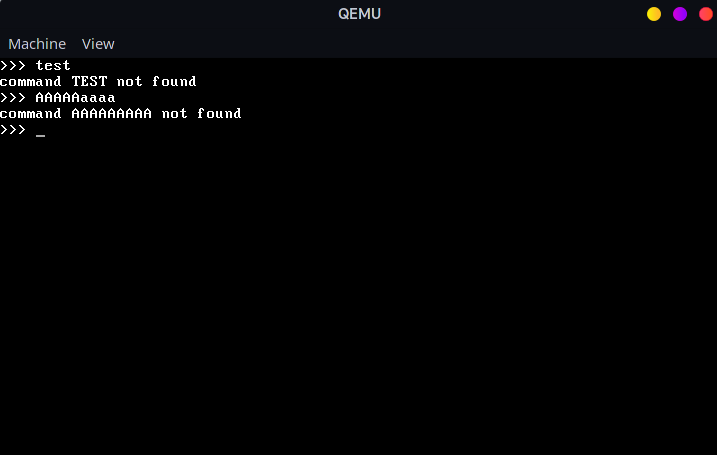
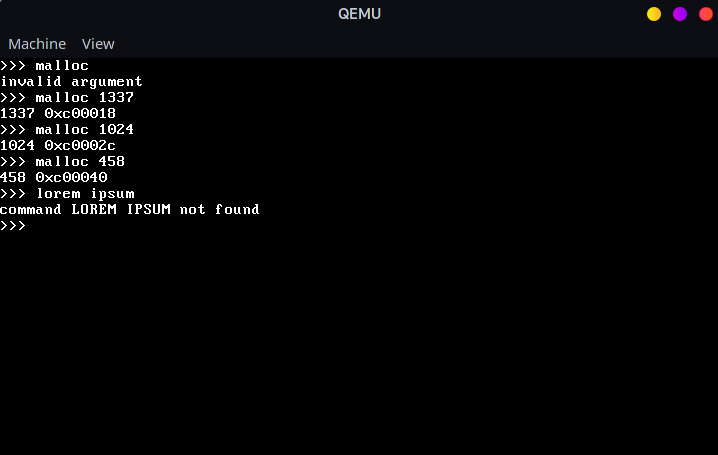
heap

diff --git a/libc/malloc/malloc.c b/libc/malloc/malloc.c
@@ -1,0 +1,85 @@
+#include "malloc.h"
+#include "../string.h"
+#include "../../devices/screen/screen.h"
+
+heap_t kernel_heap;
+
+static void __heap_init(heap_t* heap, int size)
+{
+    heap->base_addr = HIGHER_HALF_KERNEL;
+    heap->free_mem_addr = heap->base_addr;
+    heap->size = size * FRAME_SIZE;
+    heap->first = 0, heap->last = 0; // NULL
+}
+
+// heap_chunk_t* chunk;
+
+void heap_init(void)
+{
+    __heap_init(&kernel_heap, 1024 * 2);
+}
+
+void print_int(int num)
+{
+    char str[10] = "";
+    int_to_ascii(num, str);
+    kprint(str);
+}
+
+static inline void* insert(heap_t* heap, heap_chunk_t* chunk, unsigned int size)
+{
+    chunk->data_size = size;
+
+    if(heap->first == 0)
+    {
+        chunk->next = 0;
+        chunk->prev = 0;
+        heap->first = chunk;
+        heap->last = chunk;
+        return (void*)((unsigned long)chunk + sizeof(chunk));
+    }else
+    {        
+        chunk->prev = heap->last;
+        heap->last->next = chunk;
+        heap->last = chunk;
+        return (void*)((unsigned long)chunk + sizeof(chunk));
+    }
+}
+
+void* kmalloc(unsigned int size)
+{
+    int physic_sz = size + sizeof(heap_chunk_t);
+    heap_chunk_t* chunk;
+
+    chunk = (heap_chunk_t*)kernel_heap.free_mem_addr;
+
+    // todo: check if the heap still has free memory
+
+    void* pointer = insert(&kernel_heap, chunk, size);
+    kernel_heap.free_mem_addr += physic_sz;
+    return pointer;
+}
+
+static inline void remove(heap_t* heap)
+{
+    if(heap->last == heap->first)
+    {
+        heap->first, heap->last = 0;
+    }else
+    {
+        heap->last = heap->last->prev;
+        heap->last->next = 0;
+    }
+    
+}
+
+void kfree(void* addr)
+{
+    heap_chunk_t* chunk;
+    chunk = (heap_chunk_t*)((unsigned long)addr - sizeof(heap_chunk_t));
+    if(chunk == kernel_heap.last)
+    {
+        remove(&kernel_heap);
+        kernel_heap.free_mem_addr = chunk;
+    }
+}

diff --git a/shell/shell.c b/shell/shell.c
@@ -1,22 +1,100 @@
 #include "shell.h"
 #include "../devices/screen/screen.h"
 #include "../libc/string.h"
+#include "../libc/malloc/malloc.h"
+
+// <ugly>
 
 void init_shell(void)
 {
     kprint(">>> ");
 }
 
+void print_heap_var(int* addr)
+{
+    char str[1];
+    int_to_ascii((int)*addr, str);
+    kprint(str);
+    kprint(" ");
+    char str_addr[8];
+    hex_to_ascii(addr, str_addr);
+    kprint(str_addr);
+    kprint("\n");
+}
+
+int malloc_test(char* cmd) 
+{
+    int len = strlen(cmd);
+    char full_word[len];
+    int cmd_c = 0;
+    int _cmd_c = 0;
+    int arg = 0;
+    for(int i = 0; i < len; i++)
+    {
+        if(cmd[i] == ' ')
+        {
+            cmd_c = i;
+            _cmd_c = i;
+            cmd_c++;
+            while(cmd_c != len)
+            {
+                arg++;
+                cmd_c++;
+            }
+            break;
+        }else
+        {
+            full_word[i] = cmd[i];
+        }
+    }
+
+    char _cmd[_cmd_c];
+    for(int i = 0; i <= strlen(_cmd); i++)
+    {
+        _cmd[i] = full_word[i];
+    }
+    
+    _cmd_c += 1;
+
+    if(strcmp(_cmd, "MALLOC") == 0)
+    {
+        char s_arg[arg];
+        for(int i = 0; i <= arg; i++)
+        {
+            s_arg[i] = cmd[_cmd_c++];
+        }
+
+        int* var = kmalloc(sizeof(int));
+        *var = atoi(s_arg);
+        if(*var == 1901129 || *var <= 0)
+        {
+            kprint("invalid argument\n");
+            return 2;
+        }
+        print_heap_var(var);
+        return 2;
+    }
+    return 0;
+}
+
 void input(char* cmd)
 {
+    
     if(strcmp(cmd, "STOP") == 0)
     {
-       __asm__ __volatile__("hlt");
+        __asm__ __volatile__("hlt");
+    }else if(malloc_test(cmd) == 2)
+    {
+        init_shell();
+        return;
     }else
     {
         kprint("command ");
         kprint(cmd);
         kprint(" not found\n");
     }
+    
     init_shell();
 }
+
+// </ugly>

diff --git a/libc/string.c b/libc/string.c
@@ -66,3 +66,32 @@ int strcmp(char s1[], char s2[])
     }
     return s1[i] - s2[i];
 }
+
+void hex_to_ascii(int n, char str[]) {
+    append(str, '0');
+    append(str, 'x');
+    char zeros = 0;
+
+    int tmp;
+    int i;
+    for (i = 28; i > 0; i -= 4) {
+        tmp = (n >> i) & 0xF;
+        if (tmp == 0 && zeros == 0) continue;
+        zeros = 1;
+        if (tmp > 0xA) append(str, tmp - 0xA + 'a');
+        else append(str, tmp + '0');
+    }
+
+    tmp = n & 0xF;
+    if (tmp >= 0xA) append(str, tmp - 0xA + 'a');
+    else append(str, tmp + '0');
+}
+
+int atoi(char* str)
+{
+    int res = 0;
+    for (int i = 0; str[i] != '\0'; ++i)
+        res = res * 10 + str[i] - '0';
+
+    return res;
+}

diff --git a/libc/malloc/malloc.h b/libc/malloc/malloc.h
@@ -1,0 +1,29 @@
+#ifndef MALLOC_H
+#define MALLOC_H
+
+#define HIGHER_HALF_KERNEL 0xc00000
+#define FRAME_SIZE 0x1000 // 4kB
+
+typedef struct heap_chunk
+{
+    unsigned char free;
+    struct heap_elem* next;
+    struct heap_elem* prev;
+    unsigned int data_size;
+    // void* pointer;
+} heap_chunk_t;
+
+typedef struct heap
+{
+    unsigned int base_addr;
+    unsigned int size;
+    unsigned int free_mem_addr;
+    heap_chunk_t* first;    // pierwszy chunk
+    heap_chunk_t* last;     
+} heap_t;
+
+void* kmalloc(unsigned int size);
+void kfree(void* addr);
+void heap_init(void);
+
+#endif

diff --git a/libc/string.h b/libc/string.h
@@ -4,11 +4,13 @@
 #define EOL '\0'
 
 void int_to_ascii(int n, char str[]);
+void hex_to_ascii(int n, char str[]);
 void reverse(char s[]);
 int strlen(char s[]);
 void backspace(char s[]);
 void append(char s[], char n);
 int strcmp(char s1[], char s2[]);
 char* to_lower(char* s);
+int atoi(char* str);
 
 #endif

diff --git a/kernel/kernel.c b/kernel/kernel.c
@@ -3,10 +3,12 @@
 #include "ISR/isr.h"
 #include "IRQ/irq.h"
 #include "../shell/shell.h"
+#include "../libc/malloc/malloc.h"
 
 void kmain(void)
 {
     idt_install();
     irq_install();
     init_shell();
+    heap_init();
 }
